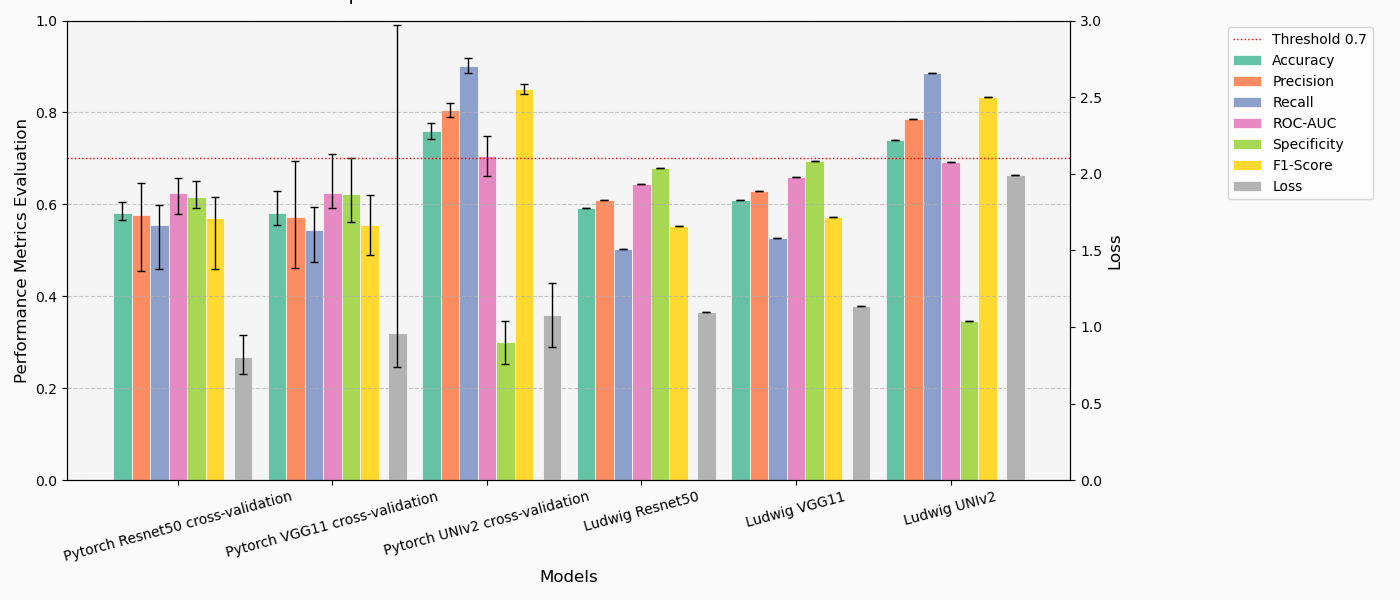
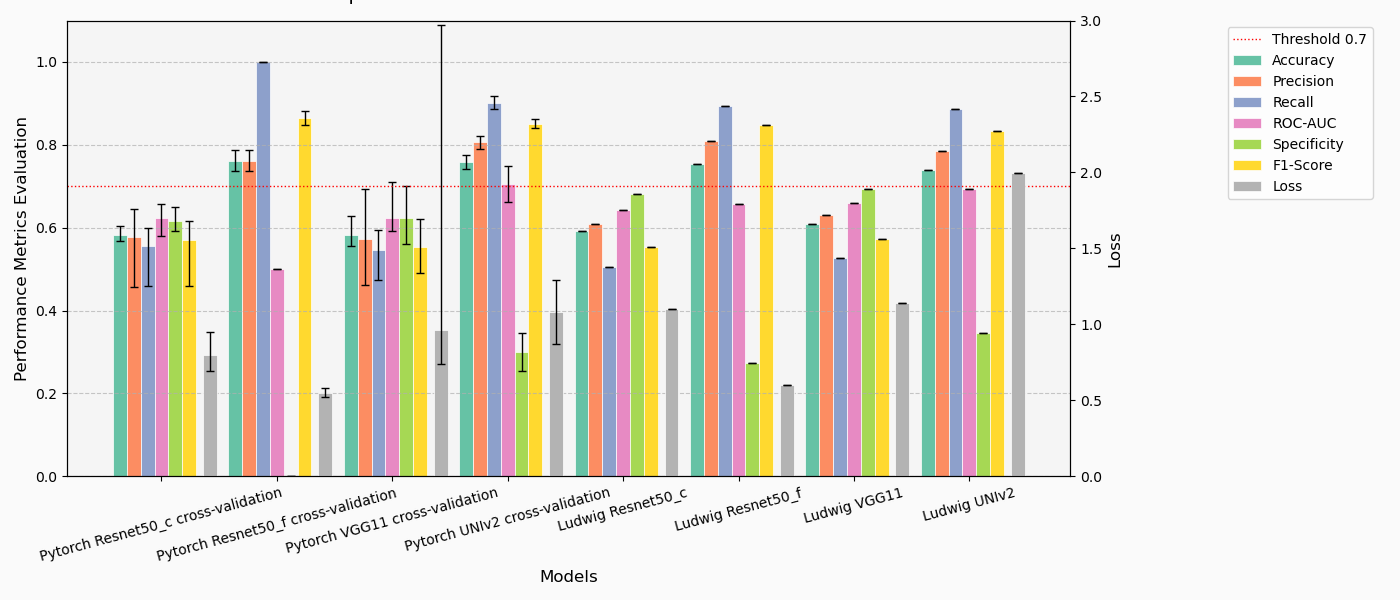
resnet50_f figure

diff --git a/tiles_embedding_test/utils/metrics_plot.py b/tiles_embedding_test/utils/metrics_plot.py
@@ -1,44 +1,46 @@
 import matplotlib.pyplot as plt
 import numpy as np
 
-# Updated results with renamed entry and reordered position
+# Updated results with new entries
 results = [
-    'Pytorch Resnet50 cross-validation',
+    'Pytorch Resnet50_c cross-validation',
+    'Pytorch Resnet50_f cross-validation',  # New entry 1
     'Pytorch VGG11 cross-validation',
-    'Pytorch UNIv2 cross-validation',  # Renamed and repositioned
-    'Ludwig Resnet50',
+    'Pytorch UNIv2 cross-validation',
+    'Ludwig Resnet50_c',
+    'Ludwig Resnet50_f',  # New entry 2
     'Ludwig VGG11',
     'Ludwig UNIv2'
 ]
 
-# Metric arrays (reordered to match new position of Pytorch UNIv2 cross-validation)
-loss = [0.8014, 0.9623, 1.0785, 1.0982, 1.1385, 1.9936]
-loss_ci_lower = [0.6932, 0.7394, 0.8674, None, None, None]
-loss_ci_upper = [0.9473, 2.9727, 1.2895, None, None, None]
+# Metric arrays updated with new values
+loss = [0.8014, 0.5503, 0.9623, 1.0785, 1.0982, 0.6007, 1.1385, 1.9936]
+loss_ci_lower = [0.6932, 0.5208, 0.7394, 0.8674, None, None, None, None]
+loss_ci_upper = [0.9473, 0.5799, 2.9727, 1.2895, None, None, None, None]
 
-accuracy = [0.5822, 0.5814, 0.7592, 0.5924, 0.6100, 0.7398]
-accuracy_ci_lower = [0.5669, 0.5550, 0.7424, None, None, None]
-accuracy_ci_upper = [0.6051, 0.6281, 0.7760, None, None, None]
+accuracy = [0.5822, 0.7613, 0.5814, 0.7592, 0.5924, 0.7532, 0.6100, 0.7398]
+accuracy_ci_lower = [0.5669, 0.7361, 0.5550, 0.7424, None, None, None, None]
+accuracy_ci_upper = [0.6051, 0.7865, 0.6281, 0.7760, None, None, None, None]
 
-precision = [0.5769, 0.5734, 0.8056, 0.6096, 0.6296, 0.7850]
-precision_ci_lower = [0.4560, 0.4608, 0.7907, None, None, None]
-precision_ci_upper = [0.6459, 0.6939, 0.8206, None, None, None]
+precision = [0.5769, 0.7613, 0.5734, 0.8056, 0.6096, 0.8082, 0.6296, 0.7850]
+precision_ci_lower = [0.4560, 0.7361, 0.4608, 0.7907, None, None, None, None]
+precision_ci_upper = [0.6459, 0.7865, 0.6939, 0.8206, None, None, None, None]
 
-recall = [0.5558, 0.5450, 0.9019, 0.5039, 0.5258, 0.8859]
-recall_ci_lower = [0.4591, 0.4739, 0.8856, None, None, None]
-recall_ci_upper = [0.5986, 0.5938, 0.9182, None, None, None]
+recall = [0.5558, 1.0000, 0.5450, 0.9019, 0.5039, 0.8931, 0.5258, 0.8859]
+recall_ci_lower = [0.4591, 1.0000, 0.4739, 0.8856, None, None, None, None]
+recall_ci_upper = [0.5986, 1.0000, 0.5938, 0.9182, None, None, None, None]
 
-roc_auc = [0.6238, 0.6241, 0.7057, 0.6435, 0.6597, 0.6930]
-roc_auc_ci_lower = [0.5797, 0.5911, 0.6625, None, None, None]
-roc_auc_ci_upper = [0.6579, 0.7104, 0.7490, None, None, None]
+roc_auc = [0.6238, 0.5000, 0.6241, 0.7057, 0.6435, 0.6571, 0.6597, 0.6930]
+roc_auc_ci_lower = [0.5797, 0.5000, 0.5911, 0.6625, None, None, None, None]
+roc_auc_ci_upper = [0.6579, 0.5000, 0.7104, 0.7490, None, None, None, None]
 
-specificity = [0.6164, 0.6228, 0.2996, 0.6801, 0.6934, 0.3454]
-specificity_ci_lower = [0.5913, 0.5613, 0.2537, None, None, None]
-specificity_ci_upper = [0.6501, 0.6998, 0.3455, None, None, None]
+specificity = [0.6164, 0.0000, 0.6228, 0.2996, 0.6801, 0.2739, 0.6934, 0.3454]
+specificity_ci_lower = [0.5913, 0.0000, 0.5613, 0.2537, None, None, None, None]
+specificity_ci_upper = [0.6501, 0.0000, 0.6998, 0.3455, None, None, None, None]
 
-f1_score = [0.5703, 0.5544, 0.8508, 0.5530, 0.5732, 0.8325]  # Typo fixed from 0.850 PREDICTION8
-f1_score_ci_lower = [0.4591, 0.4896, 0.8397, None, None, None]
-f1_score_ci_upper = [0.6166, 0.6214, 0.8619, None, None, None]
+f1_score = [0.5703, 0.8640, 0.5544, 0.8508, 0.5530, 0.8486, 0.5732, 0.8325]
+f1_score_ci_lower = [0.4591, 0.8477, 0.4896, 0.8397, None, None, None, None]
+f1_score_ci_upper = [0.6166, 0.8804, 0.6214, 0.8619, None, None, None, None]
 
 metrics = [accuracy, precision, recall, roc_auc, specificity, f1_score]
 metric_names = ['Accuracy', 'Precision', 'Recall', 'ROC-AUC', 'Specificity', 'F1-Score']
@@ -78,7 +80,7 @@ ax1.set_ylabel('Performance Metrics Evaluation', fontsize=12)
 ax2.set_ylabel('Loss', fontsize=12)
 ax1.set_xticks(x)
 ax1.set_xticklabels(results, fontsize=10, rotation=15)
-ax1.set_ylim(0, 1)
+ax1.set_ylim(0, 1.1)  # Adjusted to accommodate recall=1.0
 ax2.set_ylim(0, 3)
 
 ax1.grid(True, axis='y', linestyle='--', alpha=0.7)
